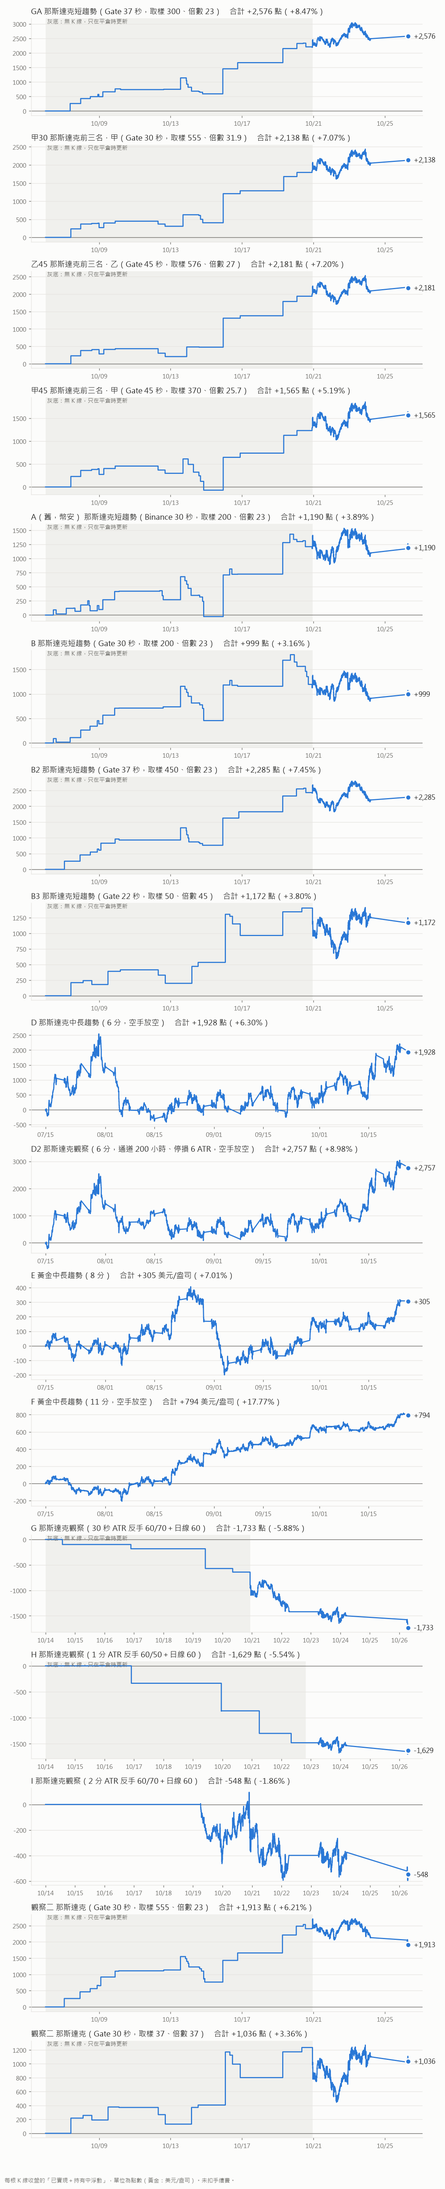
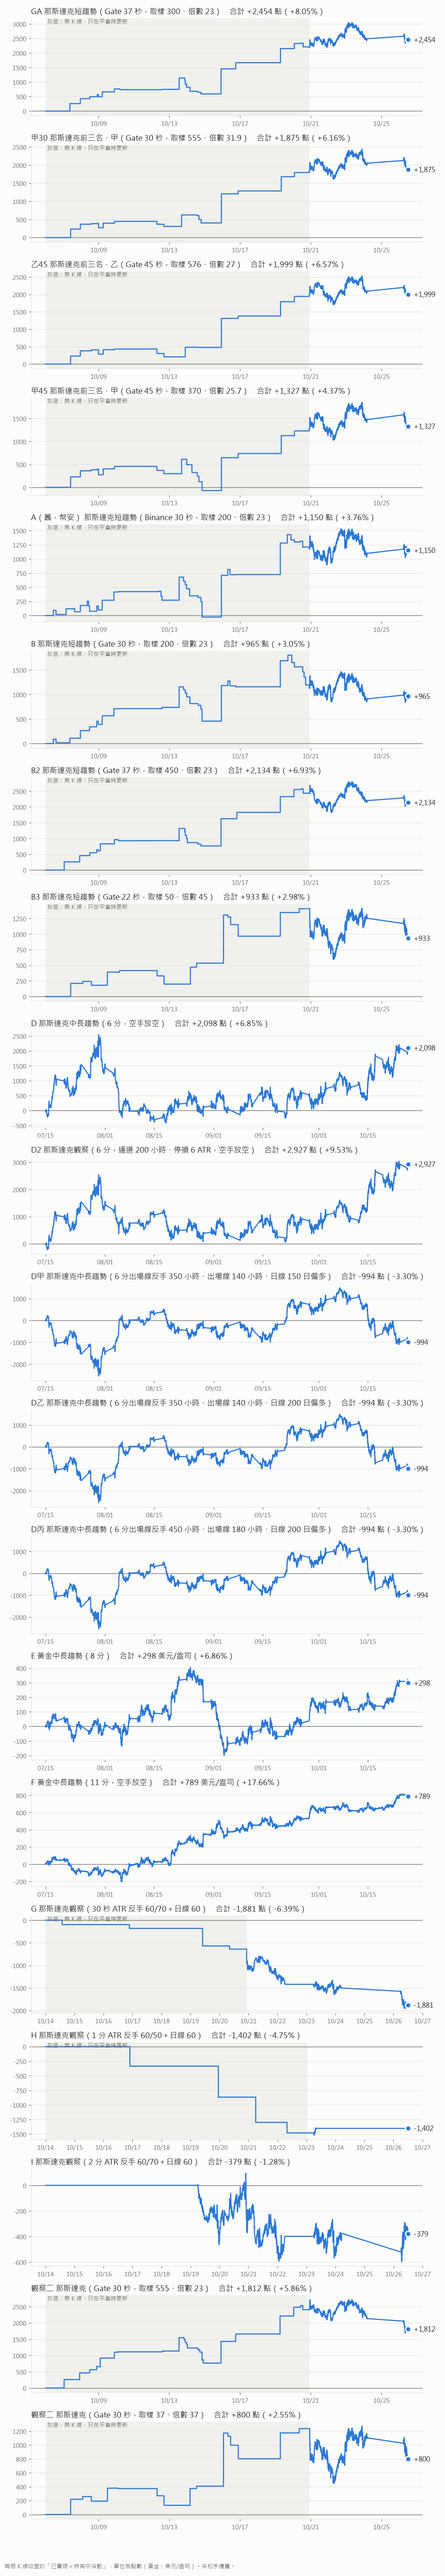
期貨趨勢 v1.29.0：中長趨勢加 D 甲／乙／丙，電腦版依商品分組 5 欄 × 3 列加藍框，NQ 轉接站改原始轉送
- 新增 D 甲（350 時／出場線 140 時／日線 150 日）、D 乙（350／140／200）、D 丙（450／180／200）：
  規則 7 出場線反手＋日線偏多、永遠在場內（TradingView NQ1! 6 分 2008 起 181 組細掃的高原中心）。
  網頁 calcDon7、紀錄程式 calc_r7，紀錄代號 DA／DB／DC，7/15 起算（10/26 以前是回算），明細與績效表都加。
- 電腦版改 5 欄 × 3 列並依商品重排：左 6 格那斯達克短趨勢、中上 4 格那斯達克中長趨勢、中下 2 格台指、
  右上 2 格黃金、右下 1 格恆生；每個小組外加藍色閃爍框，與其他閃爍同步。
- NQ 轉接站：資料變大（5 分＋2 分約 1.8 MB）後解析超過 Cloudflare 免費 CPU 上限，每次 503（錯誤碼 1102），
  D、D2 線上版也載不出。新增 ?raw=5m／2m 直接轉 Yahoo 原始回應，合併改在網頁做，算法不變；舊用法保留。已部署。
- 實際紀錄：10/26 更新（HP），新增 14 筆（DA／DB／DC 起算持有 3 筆、各組翻空 10 筆、H 補 10/23 一筆）。

diff --git a/index.html b/index.html
@@ -3,7 +3,7 @@
 <head>
 <meta charset="utf-8">
 <meta name="viewport" content="width=device-width,initial-scale=1,viewport-fit=cover">
-<title>期貨趨勢 v1.28.1</title>
+<title>期貨趨勢 v1.29.0</title>
 <meta name="description" content="那斯達克 30 秒 Range Filter（Binance 與 Gate）、那斯達克 6 分、黃金 8 分與黃金 11 分 Donchian 的即時趨勢訊號">
 <meta name="theme-color" content="#0b0e14">
 <meta name="apple-mobile-web-app-capable" content="yes">
@@ -177,9 +177,9 @@ canvas{display:block;width:100%;height:100%;touch-action:pan-y;cursor:crosshair}
 /* v1.25.0 電腦版排版（使用者 2026-10-23 決定：手機版與電腦版同一份程式，依螢幕寬度自動切，也可手動選）。
    電腦版＝這一頁的格子並排、自動換行，可上下捲動；規則、資料、交易明細完全不動。 */
 .lay-w .app{max-width:none}
-/* 電腦版：指定的 12 格同一頁、不捲動、不翻頁，四欄三列（v1.27.0 由三欄改四欄，第 4 欄放 GA 優化前三名），每格一樣大；分頁列隱藏 */
+/* 電腦版：指定的 15 格同一頁、不捲動、不翻頁，五欄三列（v1.27.0 由三欄改四欄，第 4 欄放 GA 優化前三名；v1.29.0 改五欄，第 5 欄放 D 甲乙丙），每格一樣大；分頁列隱藏 */
 .lay-w #tabs{display:none}
-.lay-w .grid{display:grid;grid-template-columns:repeat(4,minmax(0,1fr));grid-template-rows:repeat(3,minmax(0,1fr));gap:6px;padding:0 8px 8px;overflow:hidden}
+.lay-w .grid{display:grid;grid-template-columns:repeat(5,minmax(0,1fr));grid-template-rows:repeat(3,minmax(0,1fr));gap:6px;padding:4px 8px 8px;overflow:hidden}
 .lay-w .panel{flex:none;height:auto;min-height:0}
 /* v1.27.0 四欄後每格變窄：標題列縮字、組合名稱放不下時用「…」收尾，現價固定在最右邊不溢出到隔壁格 */
 .lay-w .ph{gap:4px;overflow:hidden;min-width:0}
@@ -190,6 +190,11 @@ canvas{display:block;width:100%;height:100%;touch-action:pan-y;cursor:crosshair}
 .lay-w .px{font-size:13px;flex:none}
 .lay-w .px small{font-size:10.5px;margin-left:4px}
 .lay-w .grid.mx{grid-template-columns:minmax(0,1fr);grid-template-rows:minmax(0,1fr)}
+/* v1.29.0 電腦版五個小組的藍色外框：疊在格子上、往外推 3px 落在 6px 間隙裡，不擋滑鼠；單格放大與手機版不畫 */
+.grp{display:none}
+.lay-w .grp{display:block;margin:-3px;border:3px solid #00c8ff;border-radius:9px;pointer-events:none;z-index:3;animation:grpBlink 2.4s ease-in-out infinite}
+.lay-w .grid.mx .grp{display:none}
+@keyframes grpBlink{0%,100%{opacity:1}50%{opacity:.3}}
 </style>
 </head>
 <body>
@@ -221,7 +226,7 @@ canvas{display:block;width:100%;height:100%;touch-action:pan-y;cursor:crosshair}
 
 <script>
 "use strict";
-const VERSION = "v1.28.1";   // v1.28.1：Gate 逐筆請求排隊限速＋失敗等 11 秒重試（撞到每 10 秒 200 次限額，GA、B2、B3、前三名載不出來）；網頁標題補成同版號。v1.28.0：LINE 推播的格子（目前只有那斯達克 B2；台指 A/B 使用者說先不設，PANELS 標 push:true）外框內側加黃色細線閃爍。v1.27.0：GA 優化前三名（甲 30 秒 555/31.9、乙 45 秒 576/27、甲 45 秒 370/25.7）加成三格，電腦版改 4 欄 × 3 列（第 4 欄），商品名稱白字閃爍；明細與績效表加三組（紀錄代號 J30、Y45、J45，10/6 起算）；Gate 逐筆多合成 30、45 秒。v1.26.2： v1.26.2：舊幣安 A 加回交易明細與績效表（只讀正式紀錄）。v1.26.1：閃爍由 1.2 秒放慢成 2.4 秒、外框暗時亮度 15%→35%（使用者嫌刺眼）。
+const VERSION = "v1.29.0";   // v1.29.0：中長趨勢加 D 甲／乙／丙（規則 7 出場線反手＋日線偏多，永遠在場內），明細與績效表加三組（紀錄代號 DA／DB／DC，7/15 起算），電腦版改 5 欄 × 3 列（第 5 欄）。v1.28.1：Gate 逐筆請求排隊限速＋失敗等 11 秒重試（撞到每 10 秒 200 次限額，GA、B2、B3、前三名載不出來）；網頁標題補成同版號。v1.28.0：LINE 推播的格子（目前只有那斯達克 B2；台指 A/B 使用者說先不設，PANELS 標 push:true）外框內側加黃色細線閃爍。v1.27.0：GA 優化前三名（甲 30 秒 555/31.9、乙 45 秒 576/27、甲 45 秒 370/25.7）加成三格，電腦版改 4 欄 × 3 列（第 4 欄），商品名稱白字閃爍；明細與績效表加三組（紀錄代號 J30、Y45、J45，10/6 起算）；Gate 逐筆多合成 30、45 秒。v1.26.2： v1.26.2：舊幣安 A 加回交易明細與績效表（只讀正式紀錄）。v1.26.1：閃爍由 1.2 秒放慢成 2.4 秒、外框暗時亮度 15%→35%（使用者嫌刺眼）。
 //    // v1.26.0：A 格改 Gate 逐筆合成 37 秒 300/23（候選①），明細與績效表的 A 改讀紀錄代號 GA；畫面名稱改叫 GA；電腦版九格外框照部位閃爍（持多螢光紅、持空螢光綠、空手無框），取代 v1.25.1 的固定藍框。所有閃爍同步。v1.25.1：圖表標題 A 改回黃字不閃爍；B2、觀察二 555/23、D2 外框螢光藍細線閃爍。v1.25.0：電腦版（同一份程式，寬 1280px 以上或手動選「電腦」）：指定 9 格同一頁三欄三列、一樣大、不捲動；同市場格子同步顯示範圍（那斯達克、台指、恆生）；表格線螢光藍；持多／持空後面放合計（已平倉＋浮動）。v1.24.0：v1.23.6：圖表標題的觀察二 37/37 也改紅字閃爍；v1.23.5：圖表標題的 A、B2、D2、觀察二 555/23 改紅字閃爍；v1.23.4：績效表與明細的 A、B2、D2、觀察二 555/23 改紅字閃爍（只動透明度，不加光暈）；v1.23.3：明細的台指 A/B、觀察二台指拿掉閃爍；v1.23.2：台指四組從 10/21 起重新記錄觀察；v1.23.1：台指 A/B、觀察二可讀 台指/tv_hist.json 補 10/06 起的舊段明細；v1.23.0：台指四格用網頁自己的策略（參數不變）、資料只用 TradingView 台指期（1 秒 K 合成各格週期），不再照抄 848、不再讀期交所；v1.22.1：台指 K 線不再等期交所盤後檔，沒有連續月 30 秒時改用 TradingView 1 秒 K 合成；v1.22.0：台指 K 線改讀 TradingView 連續月 30 秒（轉接站 /tw，收到 200 根起生效，之前照舊）；v1.21.0：台指四組的持倉、明細、績效表改照 TradingView 848（連續月）交易清單（台指/tv_signals.json）；v1.20.4：台指換月窗恢復只看盤後（TX_HOLD_ROLL＝true）；v1.20.3：台指換月窗改即時優先；v1.20.2：明細視窗標題「交易明細」→「明細」；v1.20.1：標題列「中長趨勢」→「趨勢」、「交易明細」→「明細」；v1.20.0：交易明細加「績效表」分頁
 const $ = id => document.getElementById(id);
 const FAPI = "https://fapi.binance.com/fapi/v1";
@@ -403,6 +408,29 @@ function calcDon(B, P){
   }
   return {pos, avg:avgA, atr, look, exitN, hh, ll, all: sigs, sigs: sigs.filter(s => s.i >= look), warm: look};
 }
+/* v1.29.0 D 甲／乙／丙（使用者 2026-10-26 要求列入中長趨勢）：照 TradingView「期貨趨勢D多空反手」規則 7（出場線反手＋日線偏多），永遠在場內。
+   第一次用回看通道決定方向（突破前 N 小時高點做多、跌破低點做空），之後多單跌破出場線（回看÷比例）翻空、空單突破出場線翻多；
+   前一個已收盤交易日的 NQ 收盤 ≥ 均線時，空單改做多。TV NQ1! 6 分 2008 起 181 組：出場線 113～180 小時 × 均線 150～250 天是高原。 */
+function calcDon7(B, P){
+  const n = B.length;
+  const look = Math.min(4999, Math.max(2, Math.round(P.lookH * 60 / P.tfMin)));
+  const exitN = Math.max(10, Math.round(look / P.exDiv));
+  const H = B.map(b => b.h), L = B.map(b => b.l);
+  const hh = rollMax(H, look), ll = rollMin(L, look), he = rollMax(H, exitN), le = rollMin(L, exitN);
+  const pos = new Array(n).fill(0), raw = new Array(n).fill(0);
+  let r = 0;
+  for(let i = 0; i < n; i++){
+    const c = B[i].c;
+    if(r === 0) r = hh[i] != null && c > hh[i] ? 1 : ll[i] != null && c < ll[i] ? -1 : 0;
+    else if(r === 1){ if(le[i] != null && c < le[i]) r = -1; }
+    else if(he[i] != null && c > he[i]) r = 1;
+    raw[i] = r;
+    pos[i] = r === 1 || dailyUp(B[i].t, P.maLen) ? 1 : -1;
+  }
+  const all = [];
+  for(let i = 1; i < n; i++) if(pos[i] !== pos[i-1]) all.push({i, d:pos[i]});
+  return {pos, raw, look, exitN, hh, ll, all, sigs: all.filter(s => s.i >= look), warm: look};
+}
 /* v1.5.0：黃金上方策略專用，逐行對齊黃金儀表板 compute()（1 段、只做多）與 LINE 推播 donchian.js。
    跟上面 calcDon 有兩處不同，所以不共用：
    1. 停損後不把方向歸零，而是封鎖同方向，要先跌破出場線（方向離開多方）才接受下一次突破
@@ -507,7 +535,7 @@ async function loadDaily(){
   if(j.error) throw new Error(j.error);
   // Yahoo 日線時間戳在交易日當天（美東 00:00 前後），+18 小時落在同一交易日的 18:00 之前
   DAILY = {d: j.bars.map(b => tradeDay(b[0] + 12 * 3600000)), c: j.bars.map(b => b[4])};
-  PANELS.forEach(p => { if(p.kind === "atr") p.dirty = true; });
+  PANELS.forEach(p => { if(p.kind === "atr" || p.r7) p.dirty = true; });
 }
 
 /* v1.8.0：使用者 2026-10-13 要求 C、E 格「空手改放空」——原規則（只做多）空手的時段一律持空、永遠在場。
@@ -595,6 +623,20 @@ const PANELS = [
    spec:{tf:"6 分", par:"Donchian 回看 200 小時・停損 6 ATR・空手改放空", src:"NQ 期貨單一月份合約（Yahoo，延遲約 10 分鐘）"},
    sub:"NQ 期貨單一月份合約 6 分（同 D）・Donchian 回看 200 小時（2,000 根）・停損 6 ATR・空手改放空（不擋）",
    P:{lookH:200, mode:"long", stopAtr:6, atrLen:14, tfMin:6}},
+  /* v1.29.0 D 甲／乙／丙：同 D 的資料（Yahoo NQ 單一月份 6 分），規則 7 出場線反手＋日線偏多、永遠在場內（calcDon7）。
+     TV NQ1! 6 分 2008 起（1 口微型扣成本）：甲 +120.6 萬／回落 −28.8、乙 +99.7／−29.7、丙 +96.2／−29.0，四段都賺，獲利偏重 2022 以後。 */
+  {k:"nq7a", pg:"long", title:"那斯達克", tf:"中長趨勢・D 甲", sym:"NQ=F", src:"yahoo", nq:false, kind:"don", r7:true, tfMin:6, span:1e9, flatCol:"#4cff00",
+   spec:{tf:"6 分", par:"出場線反手 350 小時・出場線 140 小時・日線 150 日均線之上空單改做多", src:"NQ 期貨單一月份合約（Yahoo，延遲約 10 分鐘）"},
+   sub:"NQ 期貨單一月份合約 6 分（同 D）・出場線反手：首次用 350 小時通道定方向，之後破 140 小時出場線反手・日線 150 日均線之上空單改做多・永遠在場內",
+   P:{lookH:350, exDiv:2.5, maLen:150, tfMin:6}},
+  {k:"nq7b", pg:"long", title:"那斯達克", tf:"中長趨勢・D 乙", sym:"NQ=F", src:"yahoo", nq:false, kind:"don", r7:true, tfMin:6, span:1e9, flatCol:"#4cff00",
+   spec:{tf:"6 分", par:"出場線反手 350 小時・出場線 140 小時・日線 200 日均線之上空單改做多", src:"NQ 期貨單一月份合約（Yahoo，延遲約 10 分鐘）"},
+   sub:"NQ 期貨單一月份合約 6 分（同 D）・出場線反手：首次用 350 小時通道定方向，之後破 140 小時出場線反手・日線 200 日均線之上空單改做多・永遠在場內",
+   P:{lookH:350, exDiv:2.5, maLen:200, tfMin:6}},
+  {k:"nq7c", pg:"long", title:"那斯達克", tf:"中長趨勢・D 丙", sym:"NQ=F", src:"yahoo", nq:false, kind:"don", r7:true, tfMin:6, span:1e9, flatCol:"#4cff00",
+   spec:{tf:"6 分", par:"出場線反手 450 小時・出場線 180 小時・日線 200 日均線之上空單改做多", src:"NQ 期貨單一月份合約（Yahoo，延遲約 10 分鐘）"},
+   sub:"NQ 期貨單一月份合約 6 分（同 D）・出場線反手：首次用 450 小時通道定方向，之後破 180 小時出場線反手・日線 200 日均線之上空單改做多・永遠在場內",
+   P:{lookH:450, exDiv:2.5, maLen:200, tfMin:6}},
   {k:"gold8", pg:"long", title:"黃金", tf:"中長趨勢・E", sym:"XAUUSDT", nq:false, kind:"don", tfMin:8, span:1e9, flatCol:"#ff3b3b",
    spec:{tf:"8 分", par:"Donchian 回看 350 小時・多空反轉・永遠在場", src:"Binance XAUUSDT"},
    sub:"Donchian 回看 350 小時（2,625 根）・多空反轉・永遠在場",
@@ -1016,8 +1058,8 @@ function recompute(p){
   }
   p.bars = B;
   const done = B.slice(0, p.done);
-  if(p.kind === "atr" && !DAILY) return;
-  p.R = p.kind === "rf" ? calcRF(done, p.P) : p.kind === "atr" ? calcAtrRev(done, p.P) : p.goldExact ? calcDonG(done, p.P) : calcDon(done, p.P);
+  if((p.kind === "atr" || p.r7) && !DAILY) return;
+  p.R = p.kind === "rf" ? calcRF(done, p.P) : p.kind === "atr" ? calcAtrRev(done, p.P) : p.r7 ? calcDon7(done, p.P) : p.goldExact ? calcDonG(done, p.P) : calcDon(done, p.P);
   if(p.flatShort) toFlatShort(p.R);
   p.ready = true;
   $("wait-" + p.k).hidden = true;
@@ -1041,7 +1083,7 @@ function buildDOM(){
       <div class="tip" id="tip-${p.k}"></div>
       <div class="wait" id="wait-${p.k}">${p.waitMsg || "載入中…"}</div>
     </div>
-  </section>`).join("");
+  </section>`).join("") + GRP_AREAS.map(a => `<div class="grp" style="grid-area:${a}"></div>`).join("");
   $("tradeTabs").innerHTML = `<button data-k="SUM">績效表</button>` +   // v1.20.0
     TRADE_K.map(T => `<button data-k="${T.k}"${T.blink?" data-blink":""}${T.red?" data-red":""}>${T.name}</button>`).join("");
   $("tradeTabs").onclick = e => {
@@ -1116,7 +1158,7 @@ function totalHtml(p){
 }
 /* v1.26.0：所有閃爍（外框、紅字標題、明細按鈕、即時燈號，都是 2.4 秒；同日使用者嫌刺眼由 1.2 秒放慢、外框暗時留 35%）起點對齊同一個時間原點，畫面上一起亮一起暗（使用者 2026-10-24 要求）。
    動畫是各自加上樣式那一刻才起跑，不對齊就會錯開；每秒補一次，新出現的閃爍也會對齊。 */
-const BLINKS = new Set(["blink", "blinkName", "frLong", "frShort", "pushIn"]);
+const BLINKS = new Set(["blink", "blinkName", "frLong", "frShort", "pushIn", "grpBlink"]);
 function syncBlink(){
   if(!document.getAnimations) return;
   for(const a of document.getAnimations()) if(BLINKS.has(a.animationName) && a.startTime !== 0) a.startTime = 0;
@@ -1156,6 +1198,12 @@ function renderInfo(p){
     const d = R.raw[p.done - 1];
     if(d > 0){ trigK = "翻空線"; trig = fmtP(p, R.ls[p.done - 1]); }
     else if(d < 0){ trigK = e.side < 0 ? "翻多線" : "翻多線（日線在均線上，不做空）"; trig = fmtP(p, R.ss[p.done - 1]); }
+  }else if(p.r7){
+    const n = done.length, d = R.raw[n - 1], up = dailyUp(done[n - 1].t, p.P.maLen);
+    const hi = (m) => Math.max(...done.slice(n - m).map(b => b.h)), lo = (m) => Math.min(...done.slice(n - m).map(b => b.l));
+    if(d > 0){ trigK = up ? "出場線（日線偏多，跌破不翻空）" : "翻空線"; trig = fmtP(p, lo(R.exitN)); }
+    else if(d < 0){ trigK = e.side > 0 ? "翻多線（日線偏多，目前做多）" : "翻多線"; trig = fmtP(p, hi(R.exitN)); }
+    else { trigK = "突破／跌破"; trig = fmtP(p, hi(R.look)) + "／" + fmtP(p, lo(R.look)); }
   }else{
     const look = R.look, exitN = R.exitN, n = done.length;
     const hi = (m) => Math.max(...done.slice(n - m).map(b => b.h));
@@ -1210,6 +1258,9 @@ const TRADE_K = [
   {k:"G3", pk:"gate3", name:"B3",   unit:"點"},   // v1.10.0 新增 22 秒 50/45；C 格（Hyperliquid）同版刪除
   {k:"C", pk:"nq6",    name:"D",    unit:"點"},
   {k:"C2", pk:"nq6b",  name:"D2",   unit:"點", red:true},   // v1.23.4 紅字閃爍   // 2026-10-15 放在 D 正下方，同 D 資料、200/6 多空都做
+  {k:"DA", pk:"nq7a",  name:"D 甲", unit:"點"},   // v1.29.0 規則 7 出場線反手＋日線偏多，紀錄代號 DA／DB／DC，7/15 起算（10/26 以前是回算）
+  {k:"DB", pk:"nq7b",  name:"D 乙", unit:"點"},
+  {k:"DC", pk:"nq7c",  name:"D 丙", unit:"點"},
   {k:"D", pk:"gold8",  name:"E 黃金", unit:"美元", d:2},
   {k:"E", pk:"gold11", name:"F 黃金", unit:"美元", d:2},
   // v1.11.0 台指三組：沒有正式紀錄檔，從 10/6 起整段用格子自己算的部位（self）
@@ -1424,6 +1475,7 @@ const SUM_NAME = {
   GA:"那斯達克・GA（37 秒 300/23）", J30:"那斯達克・甲（30 秒 555/31.9，第1名）", Y45:"那斯達克・乙（45 秒 576/27，第2名）", J45:"那斯達克・甲（45 秒 370/25.7，第3名）",
   A:"那斯達克・舊 A（幣安 30 秒）", G:"那斯達克・B（30 秒）", G2:"那斯達克・B2（37 秒）", G3:"那斯達克・B3（22 秒）",
   C:"那斯達克・D（6 分）", C2:"那斯達克・D2（6 分）", D:"黃金・E（8 分）", E:"黃金・F（11 分）",
+  DA:"那斯達克・D 甲（6 分 350 時／均線 150）", DB:"那斯達克・D 乙（6 分 350 時／均線 200）", DC:"那斯達克・D 丙（6 分 450 時／均線 200）",
   TX1:"台指・A/B", TX2:"台指・B2", TX3:"台指・B3", TX4:"台指・觀察二 台指",
   O1:"那斯達克・觀察二 555/23", O2:"那斯達克・觀察二 37/37", HSI:"恆生・觀察二 恆生",
   R30:"那斯達克・G（30 秒，Gate）", R1:"那斯達克・H（1 分）", R2:"那斯達克・I（2 分）",
@@ -1538,8 +1590,12 @@ document.addEventListener("keydown", e => { if(e.key === "Escape" && MAXK) setMa
 /* v1.25.0 排版：手機版（分頁單欄）或電腦版（15 格同一頁）。自動＝螢幕寬 1280px 以上用電腦版；手動選的存在這台瀏覽器。 */
 const LAY_KEY = "itd-layout", LAY_NEXT = {auto:"m", m:"w", w:"auto"}, LAY_TXT = {auto:"自動", m:"手機", w:"電腦"};
 /* 電腦版保留的 12 格與位置（列, 欄）：第 1 列 A、B2、那斯達克觀察二 555/23；第 2 列 D2、台指 B2、台指觀察二；第 3 列 黃金 F、黃金 E、恆生觀察二；
-   v1.27.0 第 4 欄由上而下 GA 優化第 1～3 名（甲 30 秒、乙 45 秒、甲 45 秒） */
-const BOARD_AT = {rf:[1,1], gate2:[1,2], o2nq:[1,3], j30:[1,4], nq6b:[2,1], tx37:[2,2], o2tx:[2,3], y45:[2,4], gold11:[3,1], gold8:[3,2], o2hsi:[3,3], j45:[3,4]};
+   v1.27.0 第 4 欄由上而下 GA 優化第 1～3 名（甲 30 秒、乙 45 秒、甲 45 秒）。
+   v1.29.0 使用者 2026-10-26 依商品分組重排（5 欄 × 3 列）：左 6 格那斯達克短趨勢、中上 4 格那斯達克中長趨勢、中下 2 格台指、
+   右上 2 格黃金、右下 1 格恆生；每個小組外面一圈藍色閃爍框（GRP_AREAS，畫在格子間隙上）。 */
+const BOARD_AT = {rf:[1,1], gate2:[1,2], o2nq:[2,1], j30:[2,2], y45:[3,1], j45:[3,2],
+  nq6b:[1,3], nq7a:[1,4], nq7b:[2,3], nq7c:[2,4], tx37:[3,3], o2tx:[3,4], gold11:[1,5], gold8:[2,5], o2hsi:[3,5]};
+const GRP_AREAS = ["1 / 1 / 4 / 3", "1 / 3 / 3 / 5", "3 / 3 / 4 / 5", "1 / 5 / 3 / 6", "3 / 5 / 4 / 6"];   // 列起／欄起／列止／欄止
 function layMode(){ try{ return localStorage.getItem(LAY_KEY) || "auto"; }catch(e){ return "auto"; } }
 function applyLayout(){
   const mode = layMode(), wide = mode === "w" || (mode === "auto" && window.innerWidth >= 1280);
@@ -1724,7 +1780,7 @@ function setHoverT(t){
 /* 同步顯示範圍（使用者 2026-10-23 要求）：那斯達克、台指、恆生各自一組，組內任一格縮放或拖曳，其他格顯示同一段時間。黃金不同步。
    只在使用者動過圖之後才同步；格子的 K 棒週期不同（30 秒、37 秒、6 分…），所以用時間對齊、不用根數。 */
 const SYNC_GROUP = {};
-for(const [g, keys] of Object.entries({nq:["rf","gate","gate2","gate3","nq6","nq6b","o2nq","o2nq37","j30","y45","j45"], tx:["tx30","tx37","tx22","o2tx"], hsi:["o2hsi"]}))
+for(const [g, keys] of Object.entries({nq:["rf","gate","gate2","gate3","nq6","nq6b","nq7a","nq7b","nq7c","o2nq","o2nq37","j30","y45","j45"], tx:["tx30","tx37","tx22","o2tx"], hsi:["o2hsi"]}))
   for(const k of keys) SYNC_GROUP[k] = g;
 function syncView(p){
   const g = SYNC_GROUP[p.k];
@@ -1798,13 +1854,24 @@ const NQ_CONTRACTS = [
 ];
 let YCUT = 0;
 const nqContract = () => NQ_CONTRACTS.filter(c => c.from <= Date.now()).pop();
+/* v1.29.0：中繼站改成直接轉 Yahoo 原始回應（?raw=5m／2m），5 分＋2 分的解析合併搬到網頁做，算法同中繼站舊版：
+   2 分 K 涵蓋不到的前段用 5 分 K 補。原因：資料變大後中繼站解析超過 Cloudflare 免費 CPU 上限，每次回 503（錯誤碼 1102）。 */
+function yParse(j){
+  const d = j.chart.result[0], q = d.indicators.quote[0], out = [];
+  d.timestamp.forEach((t, i) => {
+    const o = q.open[i], h = q.high[i], l = q.low[i], c = q.close[i];
+    if(o != null && h != null && l != null && c != null) out.push({t:t * 1000, o, h, l, c, v:0});
+  });
+  return out;
+}
 async function loadYahoo(p){
-  const c = nqContract();
-  const j = await jget(NQ_RELAY + "?sym=" + encodeURIComponent(c.sym));
+  const c = nqContract(), base = NQ_RELAY + "?sym=" + encodeURIComponent(c.sym) + "&raw=";
+  const [j5, j2] = await Promise.all([jget(base + "5m"), jget(base + "2m")]);
   p.contract = c;
-  if(j.error) throw new Error(j.error);
-  RAW1M[p.sym] = j.bars.map(b => ({t:b[0], o:b[1], h:b[2], l:b[3], c:b[4], v:0}));
-  YCUT = j.cut || 0;
+  if(j5.error || j2.error) throw new Error(j5.error || j2.error);
+  const m5 = yParse(j5), m2 = yParse(j2), cut = m2.length ? m2[0].t : Infinity;
+  RAW1M[p.sym] = m5.filter(b => b.t < cut).concat(m2);
+  YCUT = isFinite(cut) ? cut : 0;
   PANELS.forEach(x => { if(x.sym === p.sym) x.dirty = true; });
 }
 /* Hyperliquid 1 分 K：一次最多給約 5,000 根（3.5 天），暖機 600 根綽綽有餘。
@@ -2273,7 +2340,7 @@ async function main(){
       pollTXL().catch(() => {}),
       loadTXH().catch(() => {}),   // v1.23.1 台指 10/06 起的舊段（沒有檔就略過）
       pollHSI().catch(e => { HSI.err = "恆生資料讀取失敗：" + e.message; const p = PAN("o2hsi"); if(p) p.dirty = true; }),   // v1.19.0   // 即時 K 拿不到時照舊只顯示盤後資料
-      loadDaily().catch(e => { for(const k of ["atr30", "atr1", "atr2"]) $("wait-" + k).textContent = "日線濾網資料載入失敗：" + e.message + "，請重新整理"; }),
+      loadDaily().catch(e => { for(const k of ["atr30", "atr1", "atr2", "nq7a", "nq7b", "nq7c"]) $("wait-" + k).textContent = "日線濾網資料載入失敗：" + e.message + "，請重新整理"; }),
     ]);
   }catch(e){
     for(const k of ["nq6", "gold8"]) $("wait-" + k).textContent = "歷史資料載入失敗：" + e.message + "，請重新整理";

diff --git a/worker/worker.js b/worker/worker.js
@@ -33,6 +33,25 @@ export default {
     const q = url.searchParams.get("sym");
     if(q && !SYM_OK.test(q)) return new Response("bad sym", {status: 400, headers: cors(origin)});
     const sym = q || SYM;
+    /* v1.29.0：?raw=5m／2m 直接轉 Yahoo 原始回應、不解析（2026-10-26 起 5 分＋2 分 60 天約 1.8 MB、3.9 萬根，
+       解析合併超過免費方案 CPU 上限，每次回 503 錯誤碼 1102）。合併改在網頁做，算法同下面 m5／m2 那段。 */
+    const raw = url.searchParams.get("raw");
+    if(raw){
+      if(raw !== "5m" && raw !== "2m") return new Response("bad raw", {status: 400, headers: cors(origin)});
+      const key = new Request(url.origin + "/nq?sym=" + sym + "&raw=" + raw);
+      let res = await caches.default.match(key);
+      if(!res){
+        const r = await fetch(`https://query1.finance.yahoo.com/v8/finance/chart/${encodeURIComponent(sym)}?interval=${raw}&range=60d&includePrePost=true`,
+          {headers: {"User-Agent": "Mozilla/5.0"}});
+        if(!r.ok) return new Response(JSON.stringify({error: `Yahoo ${raw} HTTP ${r.status}`}), {status: 502,
+          headers: Object.assign({"Content-Type": "application/json"}, cors(origin))});
+        res = new Response(r.body, {headers: {"Content-Type": "application/json", "Cache-Control": `public, max-age=${TTL}`}});
+        ctx.waitUntil(caches.default.put(key, res.clone()));
+      }
+      const out = new Response(res.body, res);
+      for(const [k, v] of Object.entries(cors(origin))) out.headers.set(k, v);
+      return out;
+    }
     // v1.9.0：?iv=1d 回傳日線（給 G、H、I 格的日線 60 日均線濾網），快取 30 分鐘
     const daily = url.searchParams.get("iv") === "1d";
 

diff --git a/實際紀錄/更新紀錄.py b/實際紀錄/更新紀錄.py
@@ -49,7 +49,10 @@ def ms(y, m, d, h=0):  # 台北時間 → 毫秒
 START = {"A": ms(2026, 10, 6), "A2": ms(2026, 10, 6), "G": ms(2026, 10, 6), "B": ms(2026, 10, 8), "C": ms(2026, 7, 15), "D": ms(2026, 7, 15), "E": ms(2026, 7, 15),
          "R30": ms(2026, 10, 14), "R1": ms(2026, 10, 14), "R2": ms(2026, 10, 14), "C2": ms(2026, 7, 15), "G2": ms(2026, 10, 6), "G3": ms(2026, 10, 6),
          "O1": ms(2026, 10, 6), "O2": ms(2026, 10, 6), "GA": ms(2026, 10, 6),
-         "J30": ms(2026, 10, 6), "Y45": ms(2026, 10, 6), "J45": ms(2026, 10, 6)}
+         "J30": ms(2026, 10, 6), "Y45": ms(2026, 10, 6), "J45": ms(2026, 10, 6),
+         "DA": ms(2026, 7, 15), "DB": ms(2026, 7, 15), "DC": ms(2026, 7, 15)}
+# DA、DB、DC（畫面 D 甲／乙／丙，2026-10-26 使用者要求列入中長趨勢）：同 C 的 Yahoo 6 分 K，規則 7 出場線反手＋日線偏多、永遠在場內
+#   （TradingView「期貨趨勢D多空反手」，2008 起 181 組細掃的高原中心）。起算比照中長趨勢 7/15，10/26 以前是回算；換月時跟 C2 一樣還不會記換倉。
 # J30、Y45、J45（2026-10-25 使用者要求「前三名列入」）：GA 優化（TradingView 長樣本 30＋45 秒約 400 組）排名前三，
 #   甲 30 秒 555/31.9、乙 45 秒 576/27、甲 45 秒 370/25.7（37 秒甲＝450/28.5、乙＝700/30 換算過來）。Gate 逐筆合成，起算 10/6，10/25 以前是回算。
 # GA（2026-10-24 使用者要求「把 A 換成候選①」）：畫面 A 格改 Gate 逐筆合成 37 秒、Range Filter 300/23，起算 10/6，10/24 以前是回算。
@@ -63,12 +66,15 @@ START = {"A": ms(2026, 10, 6), "A2": ms(2026, 10, 6), "G": ms(2026, 10, 6), "B":
 # 10/15 以前是回算、不是當時實際記的。換月（12/11）時跟 R2 一樣還不會記換倉。
 # 2026-10-14 使用者要求 D、E 回溯拉到最大：XAUUSDT 2025/12/11 上市、PAXGUSDT 1 分 K 從 2020/08/28，各扣 350 小時暖機。
 # C 維持 8/15：單一月份合約的真 5 分 K 只有 60 天，更早只剩小時 K（9 月約已下市）。
-ORDER = ["GA", "J30", "Y45", "J45", "A", "G", "G2", "G3", "C", "C2", "D", "E", "R30", "R1", "R2", "O1", "O2"]
+ORDER = ["GA", "J30", "Y45", "J45", "A", "G", "G2", "G3", "C", "C2", "DA", "DB", "DC", "D", "E", "R30", "R1", "R2", "O1", "O2"]
 # LABEL 是畫面代號（v1.8.4 起照畫面順序叫 A～F），只用在印績效與曲線圖標題；紀錄檔「格子」欄仍是左邊的內部代號。
-LABEL = {"GA": "GA", "A": "A（舊，幣安）", "A2": "A-2", "G": "B", "B": "C", "C": "D", "D": "E", "E": "F", "R30": "G", "R1": "H", "R2": "I", "C2": "D2", "G2": "B2", "G3": "B3", "O1": "觀察二", "O2": "觀察二", "J30": "甲30", "Y45": "乙45", "J45": "甲45"}
+LABEL = {"GA": "GA", "A": "A（舊，幣安）", "A2": "A-2", "G": "B", "B": "C", "C": "D", "D": "E", "E": "F", "R30": "G", "R1": "H", "R2": "I", "C2": "D2", "G2": "B2", "G3": "B3", "O1": "觀察二", "O2": "觀察二", "J30": "甲30", "Y45": "乙45", "J45": "甲45", "DA": "D甲", "DB": "D乙", "DC": "D丙"}
 NAME = {"A": "那斯達克短趨勢（Binance 30 秒，取樣 200、倍數 23）", "A2": "那斯達克短趨勢（取樣 400、倍數 16）", "G": "那斯達克短趨勢（Gate 30 秒，取樣 200、倍數 23）", "B": "那斯達克短趨勢（1 分，取樣 100、倍數 16）", "C": "那斯達克中長趨勢（6 分，空手放空）", "D": "黃金中長趨勢（8 分）", "E": "黃金中長趨勢（11 分，空手放空）",
         "R30": "那斯達克觀察（30 秒 ATR 反手 60/70＋日線 60）", "R1": "那斯達克觀察（1 分 ATR 反手 60/50＋日線 60）", "R2": "那斯達克觀察（2 分 ATR 反手 60/70＋日線 60）",
         "C2": "那斯達克觀察（6 分，通道 200 小時、停損 6 ATR，空手放空）",
+        "DA": "那斯達克中長趨勢（6 分出場線反手 350 小時、出場線 140 小時、日線 150 日偏多）",
+        "DB": "那斯達克中長趨勢（6 分出場線反手 350 小時、出場線 140 小時、日線 200 日偏多）",
+        "DC": "那斯達克中長趨勢（6 分出場線反手 450 小時、出場線 180 小時、日線 200 日偏多）",
         "G2": "那斯達克短趨勢（Gate 37 秒，取樣 450、倍數 23）",
         "G3": "那斯達克短趨勢（Gate 22 秒，取樣 50、倍數 45）",
         "GA": "那斯達克短趨勢（Gate 37 秒，取樣 300、倍數 23）",
@@ -355,6 +361,21 @@ def calc_don(B, lookH, tf, mode, stop_atr, atr_len=14):
         if not rev and d == 0 and side != 0: side = 0; avg = None
         if flip: side = d; avg = c
         pos[i] = side
+    return pos, look
+
+def calc_r7(B, lookH, tf, ex_div, ma_len, daily):
+    """D 甲乙丙：照 index.html 的 calcDon7（＝TradingView「期貨趨勢D多空反手」規則 7）。永遠在場內。
+    第一次用回看通道定方向，之後多單跌破出場線（回看÷ex_div）翻空、空單突破出場線翻多；前一日收盤在 ma_len 日均線以上時空單改做多。"""
+    n = len(B); look = min(4999, max(2, round(lookH * 60 / tf))); exn = max(10, round(look / ex_div))
+    H = [b[2] for b in B]; L = [b[3] for b in B]
+    hh, ll, he, le = roll(H, look, True), roll(L, look, False), roll(H, exn, True), roll(L, exn, False)
+    pos = [0] * n; r = 0
+    for i in range(n):
+        c = B[i][4]
+        if r == 0: r = 1 if hh[i] is not None and c > hh[i] else -1 if ll[i] is not None and c < ll[i] else 0
+        elif r == 1: r = -1 if le[i] is not None and c < le[i] else 1
+        else: r = 1 if he[i] is not None and c > he[i] else -1
+        pos[i] = 1 if r == 1 or daily_up(B[i][0], ma_len, daily) else -1
     return pos, look
 
 def calc_don_g(B, lookH=350, tf=11, stop_atr=8, atr_len=14):
@@ -671,7 +692,12 @@ if __name__ == "__main__":
     posR2, wR2 = calc_atr_rev(BR2, 60, 70, 60, DAILY)
     added += update("R2", BR2, posR2, wR2, act[1]); LAST["R2"] = (BR2[-1][4], BR2[-1][0], None)
 
-    BARS = {"A": BA, "G": BG, "B": BB, "C": BC, "D": BD, "E": BE, "R30": BA, "R1": BB, "R2": BR2, "C2": BC, "G2": BG2, "G3": BG3, "O1": BG, "O2": BG, "GA": BG2, "J30": BG, "Y45": BG45, "J45": BG45}
+    print("算 D 甲／乙／丙：出場線反手＋日線偏多（同 C 的 6 分 K）")
+    for k, lk, ma in (("DA", 350, 150), ("DB", 350, 200), ("DC", 450, 200)):
+        posR7, wR7 = calc_r7(BC, lk, 6, 2.5, ma, DAILY)
+        added += update(k, BC, posR7, wR7, act[1]); LAST[k] = LAST["C"]
+
+    BARS = {"A": BA, "G": BG, "B": BB, "C": BC, "D": BD, "E": BE, "R30": BA, "R1": BB, "R2": BR2, "C2": BC, "G2": BG2, "G3": BG3, "O1": BG, "O2": BG, "GA": BG2, "J30": BG, "Y45": BG45, "J45": BG45, "DA": BC, "DB": BC, "DC": BC}
     allrows = [r for r in LOG_ROWS if r not in added] + added
     allrows.sort(key=lambda r: (r["格子"], int(r["時間戳"])))
     save_log(allrows)
